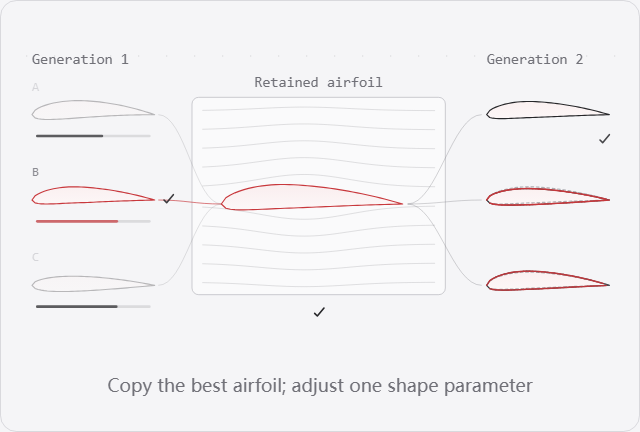
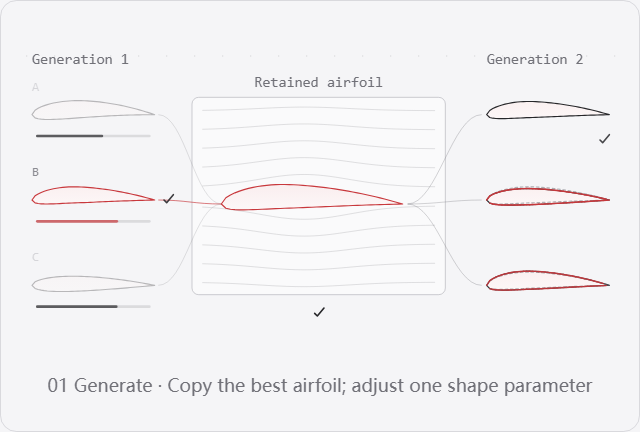
docs: align README loop and smooth bilingual animations

Changed region(s): [[0.0625, 0.8727, 0.9375, 0.9329]]

diff --git a/docs/tools/encode_readme_media.py b/docs/tools/encode_readme_media.py
@@ -13,6 +13,8 @@ from PIL import Image, ImageChops
 frames_root = Path(sys.argv[1]).resolve()
 assets = Path(__file__).resolve().parents[1] / "source" / "_static"
 manifest = json.loads((frames_root / "manifest.json").read_text(encoding="utf-8"))
+frame_duration = manifest["frameDurationMs"]
+assert frame_duration % 10 == 0, "GIF durations must be whole centiseconds"
 for scene in manifest["scenes"]:
     folder = frames_root / scene["name"]
     indices = list(range(0, scene["frames"], 20))
@@ -42,8 +44,10 @@ for scene in manifest["scenes"]:
         destination,
         save_all=True,
         append_images=frames[1:],
-        duration=100,
+        duration=frame_duration,
         loop=0,
+        # Emit one global table instead of repeating a local palette in every frame.
+        palette=palette.getpalette(),
         optimize=True,
         disposal=1,
     )

diff --git a/README.md b/README.md
@@ -24,7 +24,7 @@
   <a href="./README_ZH.md">简体中文</a>
 </p>
 
-**EvoX provides the computing and experimentation foundation for AI that evolves.** Generate candidates, evaluate their performance, retain strong solutions, and adjust inherited traits for the next round. Across models, software, control policies, and scientific design, this process turns experimental feedback into continued improvement.
+**EvoX provides the computing and experimentation foundation for AI that evolves.** The loop has three steps: **Generate → Evaluate → Select**. Each new round generates candidates by inheriting useful traits from retained solutions and introducing small changes. Across models, software, control policies, and scientific design, this process turns experimental feedback into continued improvement.
 
 **Tensorization and parallel computing scale up exploration.** The PyTorch main version in this repository organizes candidates and their evaluation as batched tensor computation on CPUs and GPUs. Composable algorithms, problems, and workflows connect search, execution, and feedback.
 
@@ -51,7 +51,7 @@ The earlier JAX implementation is available at [`v0.9.0`](https://github.com/EMI
 
 ## Part of the EvoX ecosystem
 
-Across digital and physical worlds, the EvoX ecosystem applies evolution to model merging, software development, robot control, and scientific design. The illustrations below follow two generations: evaluate alternatives, retain a strong candidate, copy its traits, and test locally changed descendants.
+Across digital and physical worlds, the EvoX ecosystem applies evolution to model merging, software development, robot control, and scientific design. The illustrations below follow two generations of **Generate → Evaluate → Select**. Copying retained traits and introducing local changes are part of generating the next round of candidates.
 
 | **Generative AI** | **Agentic AI** |
 |---|---|

diff --git a/README_ZH.md b/README_ZH.md
@@ -24,7 +24,7 @@
   <a href="./README.md">English</a>
 </p>
 
-**EvoX 为持续演化的 AI 提供计算与实验基础。** 生成候选、评估表现、选择保留，再调整继承的特征进入下一轮——这一机制贯穿模型、软件、控制策略与科学设计，让能力随实验不断积累。
+**EvoX 为持续演化的 AI 提供计算与实验基础。** 演化循环分为三步：**生成候选 → 评估表现 → 选择保留**。每一轮生成候选时，继承保留方案的有效特征并引入小幅调整。这一机制贯穿模型、软件、控制策略与科学设计，让能力随实验不断积累。
 
 **张量化与并行计算扩大探索规模。** 本仓库的 PyTorch 主版本将候选解及其评估组织为 CPU、GPU 上的批量张量计算，以可组合的算法、问题和工作流连接搜索、执行与反馈。
 
@@ -51,7 +51,7 @@
 
 ## EvoX 生态
 
-从数字世界到物理世界，EvoX 生态将演化用于模型融合、软件构建、机器人控制和科学设计。以下动画展示两代演化：比较候选、保留较优方案、复制其特征，再评估经过局部调整的后代。
+从数字世界到物理世界，EvoX 生态将演化用于模型融合、软件构建、机器人控制和科学设计。以下动画展示两代“**生成候选 → 评估表现 → 选择保留**”循环。复制保留方案的特征并作局部调整，属于下一轮生成候选的过程。
 
 | **生成式 AI** | **智能体 AI** |
 |---|---|
